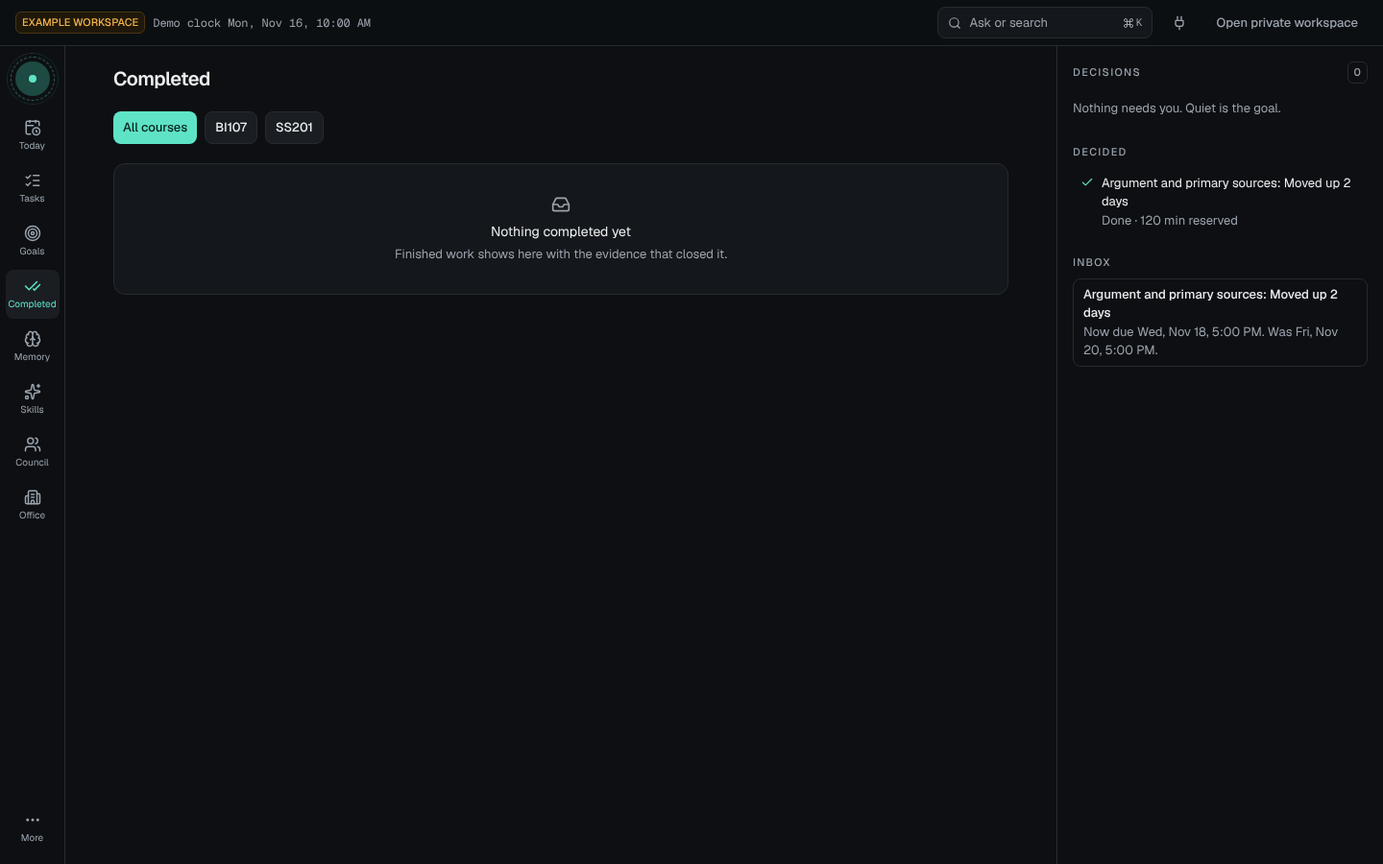
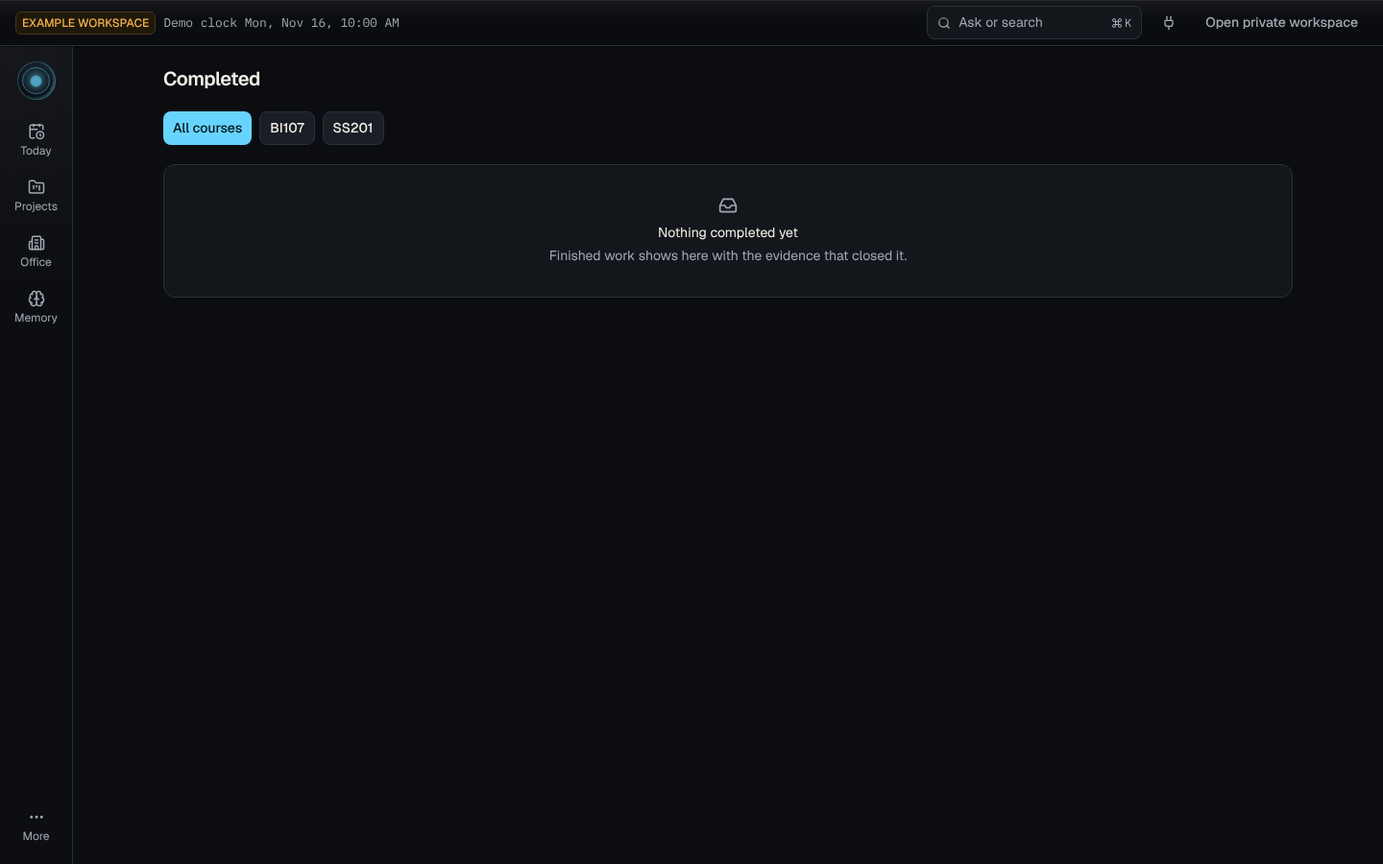
E2E: redesign journeys, handoff and projects/connector flows
Claude-Session: https://claude.ai/code/session_01LVTA14dv2q5dUimpnS7hsM

diff --git a/scripts/e2e.ts b/scripts/e2e.ts
@@ -109,8 +109,10 @@ async function journeyDesktop(ctx: BrowserContext) {
   await page.reload();
   await page.getByTestId("primary-action").waitFor();
   ok((await page.getByTestId("decision-card").count()) === 0, "no pending decision after refresh");
-  await page.getByText("Decided").waitFor();
-  ok(/Reserved|Done|reserved/.test(await page.locator("aside").innerText()), "decided list persists after refresh");
+  ok((await page.locator("aside[aria-label='Decisions']").count()) === 0, "with nothing pending the decisions inspector gives the space back");
+  await page.goto(base + "/decisions"); await page.getByText("Decided").waitFor();
+  ok(/Reserved|Done|reserved/.test(await page.locator("main").innerText()), "decided list persists after refresh");
+  await page.goto(base + "/");
 
   step("Retry the same reserve through the API");
   const again = await post(`/decisions/${accepted.id}/reserve`, {});
@@ -297,7 +299,9 @@ async function journeyMemoryGoals(page: Page) {
 
   step("Memory: search, map, vault, forget");
   await page.goto(base + "/memory");
-  await page.getByLabel("Search notes").fill("shabbat");
+  await page.getByLabel("Ask memory").fill("shabbat");
+  await page.getByTestId("memory-answer").waitFor();
+  ok(/Why:/.test(await page.getByTestId("memory-answer").innerText()), "memory answers with a current answer and why");
   await page.getByRole("button", { name: /Protect Shabbat/ }).first().click();
   await page.getByTestId("note-editor").waitFor();
   ok(/Scheduling rules/.test(await page.getByTestId("note-editor").innerText()), "links and backlinks show");
@@ -317,13 +321,14 @@ async function journeyMemoryGoals(page: Page) {
   await page.getByTestId("reflection-log").getByText(/Perspective A/).waitFor();
   const dump = JSON.stringify(await (await fetch(`${base}/api/export`)).json());
   ok(!dump.includes("zebra-quokka-7731"), "private room content is not stored or exported");
-  await page.getByRole("tab", { name: "Notes" }).click();
-  await page.getByLabel("Search notes").fill("sydney");
+  await page.getByRole("tab", { name: "Memory" }).click();
   await page.getByRole("button", { name: /Leaning Sydney/ }).first().click();
   await page.getByRole("button", { name: "Forget", exact: true }).click();
   await page.getByRole("button", { name: /Confirm: remove/ }).click();
-  await page.getByText("No matches").waitFor();
-  ok(true, "forget removes the note from search");
+  await page.waitForFunction(() => !/Leaning Sydney/.test(document.querySelector("main")?.textContent ?? ""));
+  await page.getByLabel("Ask memory").fill("sydney");
+  await page.getByTestId("memory-answer").getByText(/nothing saved/).waitFor();
+  ok(true, "forget removes the note from the list and from the answer");
   await shot(page, "08-memory-desktop.png");
 }
 
@@ -411,7 +416,9 @@ async function journeyBreak(page: Page) {
   ok(/solid 2px/.test(outline), `focus is visible (${outline})`);
 
   step("Connections drawer and health check");
-  await page.getByRole("button", { name: "Connections and health" }).click();
+  await page.getByRole("link", { name: "Connections", exact: true }).click(); await page.waitForURL(/\/connections/);
+  ok(/Not verified with ordinary Claude yet/.test(await page.getByTestId("connection-status").innerText()), "connections page does not claim ordinary Claude is verified");
+  await page.goto(base + "/?connections=1");
   await page.getByTestId("connections-list").waitFor();
   await page.getByRole("button", { name: "Run health check" }).click();
   await page.getByText(/Local checks only/).first().waitFor();
@@ -419,6 +426,87 @@ async function journeyBreak(page: Page) {
   ok(!/live verified/i.test(ct.replace(/not live verified/gi, "")), "no connection claims to be live verified");
   ok(/Blackboard/.test(ct) && /Needs connection/.test(ct), "Blackboard is honest about needing you");
   await page.keyboard.press("Escape");
+}
+
+async function journeyProjects(page: Page) {
+  step("Projects and the connector: Claude plans a trip, Jarvis knows what was decided");
+  await post("/demo/reset", { confirm: "RESET DEMO" });
+  await page.goto(base + "/projects");
+  await page.getByTestId("projects-empty").waitFor();
+  ok(/Connections/.test(await page.getByTestId("projects-empty").innerText()), "the empty state says how a project starts and points at Connections");
+  await shot(page, "20-projects-empty-desktop.png");
+  await page.goto(base + "/connections");
+  ok(/Not verified with ordinary Claude yet/.test(await page.getByTestId("connection-status").innerText()), "connections starts unverified");
+  await page.getByTestId("token-create").click();
+  await page.getByTestId("token-fresh").waitFor();
+  const token = (await page.getByTestId("token-value").innerText()).trim();
+  ok(/^jvs_d_[A-Za-z0-9_-]{43}$/.test(token), "a token is shown once");
+  ok(!JSON.stringify(await api("/connector")).includes(token), "the API never returns the secret again");
+  await page.reload(); await page.getByTestId("token-list").waitFor();
+  ok((await page.getByTestId("token-fresh").count()) === 0 && !(await bodyText(page)).includes(token), "after a reload the secret is gone from the page");
+  ok(!page.url().includes("jvs_"), "the token never appears in a URL");
+
+  const { Client } = await import("@modelcontextprotocol/sdk/client/index.js");
+  const { StreamableHTTPClientTransport } = await import("@modelcontextprotocol/sdk/client/streamableHttp.js");
+  const connect = async (t: string) => { const c = new Client({ name: "ordinary-claude-emulator", version: "1" }); await c.connect(new StreamableHTTPClientTransport(new URL(`${base}/mcp`), { requestInit: { headers: { authorization: `Bearer ${t}` } } })); return c; };
+  const call = async (c: any, name: string, args: any) => { const r = await c.callTool({ name, arguments: args }); return r.isError ? { error: r.content[0].text } : JSON.parse(r.content[0].text); };
+  const claude = await connect(token);
+  const r1 = await call(claude, "apply_project_update", { project: "Iceland trip", createIfMissing: { kind: "trip" }, eventId: "e2e-iceland-0001", dedupKey: "chat:4", changes: [{ op: "option", key: "lodging", text: "Reykjavik apartment" }, { op: "option", key: "lodging", text: "Vik guesthouse" }, { op: "decide", key: "dates", text: "June 14 to 21" }] });
+  ok(r1.saved && r1.revision === 1 && r1.origin === "claude", "Claude saved a trip update through the connector and got a receipt");
+  ok((await call(claude, "apply_project_update", { project: "Iceland trip", eventId: "e2e-iceland-0002", dedupKey: "chat:4", changes: [{ op: "fact", key: "z", text: "z" }] })).replay === true, "replaying the message did not write twice");
+  await page.goto(base + "/projects");
+  await page.getByTestId("project-card").filter({ hasText: "Iceland trip" }).click();
+  await page.getByTestId("project-answer").waitFor();
+  ok(/June 14 to 21/.test(await page.getByTestId("project-answer").innerText()), "the project page shows the decision Claude saved");
+  ok((await page.getByTestId("project-fact").filter({ hasText: "Vik guesthouse" }).count()) === 1, "undecided options are listed separately");
+  ok(/Claude conversation/.test(await page.getByTestId("project-fact").filter({ hasText: "June 14 to 21" }).innerText()), "each item says it came from a Claude conversation");
+  await shot(page, "21-project-desktop.png");
+  await page.getByTestId("project-fact").filter({ hasText: "June 14 to 21" }).locator("button").first().click();
+  await page.getByTestId("project-inspector").waitFor();
+  ok(/e2e-iceland-0001/.test(await page.getByTestId("project-inspector").innerText()), "the inspector shows the evidence: event id, revision, source");
+  await page.getByRole("button", { name: "Edit", exact: true }).click();
+  await page.getByLabel("Edit text").fill("June 15 to 22");
+  await page.getByRole("button", { name: "Save", exact: true }).first().click();
+  await page.getByTestId("project-answer").getByText(/June 15 to 22/).waitFor();
+  ok(true, "editing in Jarvis changes the current answer");
+  const ctxNow = await call(claude, "get_project_context", { project: "Iceland trip" });
+  ok(ctxNow.current.find((f: any) => f.key === "dates").text === "June 15 to 22", "Claude reads the edit you made in Jarvis");
+  const stale = await call(claude, "apply_project_update", { project: "Iceland trip", expectedRevision: 1, eventId: "e2e-iceland-0003", changes: [{ op: "decide", key: "dates", text: "June 20 to 27" }] });
+  ok(stale.saved === false && stale.conflict === true, "a stale Claude update is refused and does not overwrite your edit");
+  await page.getByRole("button", { name: "Choose this" }).first().click();
+  await page.getByTestId("project-fact").filter({ hasText: "Decided" }).filter({ hasText: /Reykjavik|Vik/ }).first().waitFor();
+  await page.getByTestId("project-undo").click();
+  await page.waitForFunction(() => document.querySelectorAll('[data-testid="project-fact"]').length > 0);
+  ok(true, "undo steps back the last update");
+
+  step("Two-way connection check");
+  await page.goto(base + "/connections");
+  await page.getByTestId("probe-start").click(); await page.getByTestId("probe").waitFor();
+  const code = (await page.getByTestId("probe").innerText()).match(/JV-[0-9A-F]{6}/)![0];
+  ok((await page.getByTestId("probe-edit").isDisabled()), "the marker step waits for Claude's write");
+  await call(claude, "save_to_jarvis", { text: `Remember for Jarvis: connection check ${code}`, synthetic: true });
+  await page.getByTestId("probe").getByText(/Received/).waitFor({ timeout: 10000 });
+  await page.getByTestId("probe-edit").click(); await page.getByTestId("probe").getByText(/Marker added/).waitFor();
+  const back = await call(claude, "recall_from_jarvis", { query: `connection check ${code}` });
+  ok(back.items[0].type === "connection_check", "Claude reads the note back");
+  await page.getByTestId("connection-status").getByText(/connected and verified/).waitFor({ timeout: 10000 });
+  ok(true, "the status turns verified only after write, edit and read-back");
+  await shot(page, "22-connections-desktop.png");
+
+  step("Revoke stops the connector at once");
+  await page.getByRole("button", { name: "Revoke" }).first().click();
+  await page.getByTestId("token-list").getByText("revoked").waitFor();
+  let refused = false; try { await call(claude, "get_project_context", {}); } catch { refused = true; }
+  ok(refused, "a revoked token stops working even in an open session");
+  await claude.close().catch(() => {});
+
+  step("Memory, Today and Activity after the work");
+  await page.goto(base + "/memory"); await page.getByTestId("memory-ask").fill("dates"); await page.getByTestId("memory-answer").getByText(/June 15 to 22/).waitFor();
+  ok(/Claude conversation|Jarvis/.test(await page.getByTestId("memory-answer").innerText()), "memory answers from the project decision and says why");
+  await shot(page, "23-memory-desktop.png");
+  await page.goto(base + "/activity"); await page.getByTestId("outcomes").waitFor();
+  ok((await page.getByTestId("outcome-row").filter({ hasText: "Iceland trip" }).count()) >= 1, "Activity lists the project update as an outcome with its receipt");
+  await shot(page, "24-activity-desktop.png");
 }
 
 async function journeyMobile(browser: Browser) {
@@ -432,12 +520,10 @@ async function journeyMobile(browser: Browser) {
   ok((await overflow()) <= 0, "Today has no horizontal scroll");
   await shot(page, "10-today-mobile.png");
   await page.getByTestId("replay-update").tap();
-  await page.getByRole("link", { name: /Decisions/ }).waitFor();
-  await page.getByRole("link", { name: /Decisions/ }).filter({ hasText: "1" }).waitFor();
-  ok(true, "Decisions tab shows the count");
-  await page.getByRole("link", { name: /Decisions/ }).tap();
+  await page.getByRole("navigation", { name: "Primary mobile" }).getByRole("link", { name: /Today/ }).filter({ hasText: "1" }).waitFor();
+  ok(true, "the Today tab shows the pending-decision count");
   await page.getByTestId("decision-card").first().waitFor();
-  ok((await overflow()) <= 0, "Decisions has no horizontal scroll");
+  ok((await overflow()) <= 0, "Today with a decision has no horizontal scroll");
   await page.getByTestId("decision-card").first().tap();
   const dlg = page.getByRole("dialog"); await dlg.getByTestId("plan-chunks").waitFor();
   const box = await dlg.boundingBox();
@@ -451,15 +537,15 @@ async function journeyMobile(browser: Browser) {
   await reserve.tap();
   await dlg.getByTestId("decision-state").waitFor();
   await page.keyboard.press("Escape");
-  await page.getByRole("button", { name: "Capture" }).tap();
+  await page.getByTestId("mobile-capture").tap();
   await page.getByRole("dialog").getByLabel("Who owes").fill("Example advisor");
   await page.getByRole("dialog").getByLabel("What was promised").fill("Send the reading list");
   await page.getByRole("dialog").getByRole("button", { name: "Save" }).tap();
   await page.getByText(/Promise saved/).waitFor();
   ok(true, "Capture works on the phone");
   await page.keyboard.press("Escape");
-  await page.getByRole("button", { name: "More" }).tap();
-  await page.getByRole("link", { name: "Council" }).tap();
+  await page.getByRole("button", { name: "More", exact: true }).tap();
+  await page.getByRole("link", { name: "Council", exact: true }).tap();
   await page.getByText("Load the sample essay").waitFor();
   ok((await overflow()) <= 0, "Council has no horizontal scroll");
   await shot(page, "12-council-mobile.png");
@@ -543,20 +629,32 @@ async function journeyOffice(page: Page, browser: Browser) {
   ok(/three pitch angles/.test(await page.getByTestId("receipt-message").innerText()), "receipt says what was saved");
   await page.getByTestId("roster-job").filter({ hasText: "Capacity specialist" }).first().waitFor({ timeout: 20000 });
   ok(true, "the supervisor assigned a Capacity specialist");
+  // The visual test: from the room alone, who assigned, who is working, and (later) who needs you.
+  await page.getByTestId("handoff-path").first().waitFor({ timeout: 15000 });
+  ok(/Jarvis/.test(await page.getByTestId("handoff-assigned").innerText()) && /Planner|Reviewer/.test(await page.getByTestId("handoff-assigned").innerText()), "the handoff strip says who assigned it and to whom");
+  await page.getByTestId("office-worker").filter({ has: page.locator("xpath=.") }).first().waitFor();
+  ok(/Planner/.test(await page.getByTestId("handoff-working").innerText()), "the handoff strip says who is working now");
+  const workerLabels = await page.getByTestId("office-worker").evaluateAll((els) => els.map((e) => e.getAttribute("aria-label")));
+  ok(workerLabels.some((l) => /^Planner:/.test(l ?? "")), "a Planner character is in the room");
+  await shot(page, "15a-office-handoff-desktop.png");
   const spec = page.getByTestId("roster-job").filter({ hasText: "Capacity specialist" }).first();
   await spec.click();
   const insp = page.getByTestId("inspector");
-  await insp.getByText("Delegated by").waitFor();
+  await insp.getByText("Assigned by", { exact: true }).waitFor();
   const it = await insp.innerText();
   ok(/Handle:/.test(it) && /cap_/.test(it) && /No model used/.test(it) && /Last heartbeat/.test(it), "inspector shows who delegated it, evidence, usage and heartbeat");
   await shot(page, "15-office-desktop.png");
   await waitFor("the decision to arrive", async () => (await api("/decisions")).decisions.some((d: any) => d.kind === "commitment_plan"));
-  await page.getByTestId("decision-card").filter({ hasText: "TAMID" }).first().waitFor();
-  ok(true, "a decision arrived at the Decisions desk");
+  await page.getByTestId("handoff-needs").getByText(/TAMID/).waitFor();
+  ok(/Reviewer/.test(await page.getByTestId("handoff-needs").innerText()), "the strip says the Reviewer needs you");
+  await page.getByTestId("ask-bubble").waitFor();
+  ok((await page.getByTestId("office-worker").evaluateAll((els) => els.filter((e) => e.getAttribute("data-needs-you") === "1").length)) === 1, "exactly one character is asking for you");
+  ok(/1 waiting/.test((await page.getByTestId("you-desk").textContent()) ?? ""), "your desk shows one item waiting");
+  await shot(page, "15c-office-needs-you-desktop.png");
   await waitFor("helpers to finish", async () => (await api("/office")).jobs.every((j: any) => j.status === "done"));
   const counts = async () => { const o = await api("/office"); const c = await api("/commitments"); const d = await api("/decisions"); return { jobs: o.jobs.length, cmts: c.commitments.filter((x: any) => /pitch angles/.test(x.action)).length, decs: d.decisions.filter((x: any) => x.kind === "commitment_plan").length }; };
   const c1 = await counts();
-  ok(c1.cmts === 1 && c1.decs === 1 && c1.jobs === 2, `one commitment, one decision, two jobs (${JSON.stringify(c1)})`);
+  ok(c1.cmts === 1 && c1.decs === 1 && c1.jobs === 3, `one commitment, one decision, three jobs (supervisor, planner, reviewer) (${JSON.stringify(c1)})`);
 
   step("Office: replay the same message");
   await page.getByTestId("capture-replay").click();
@@ -570,7 +668,7 @@ async function journeyOffice(page: Page, browser: Browser) {
   await page.reload();
   await page.getByTestId("roster").waitFor();
   await page.getByTestId("roster-job").first().waitFor();
-  ok((await page.getByTestId("roster-job").count()) === 2, "the roster is rebuilt from saved state after a reload");
+  ok((await page.getByTestId("roster-job").count()) === 3, "the roster is rebuilt from saved state after a reload");
 
   step("Office: kill the worker mid-job, start another, still one commitment and one decision");
   startWorker(1500);
@@ -598,7 +696,7 @@ async function journeyOffice(page: Page, browser: Browser) {
   await m.goto(base + "/office"); await m.getByTestId("roster").waitFor();
   ok((await m.evaluate(() => document.documentElement.scrollWidth - window.innerWidth)) <= 0, "Office has no horizontal scroll on the phone");
   await m.getByTestId("roster-job").first().tap();
-  await m.getByTestId("inspector").getByText("Delegated by").waitFor();
+  await m.getByTestId("inspector").getByText("Assigned by", { exact: true }).waitFor();
   await shot(m, "16-office-mobile.png");
   await ctx.close();
 }
@@ -673,7 +771,7 @@ async function journeyStudy(browser: Browser) {
   const research = page.getByTestId("roster-job").filter({ hasText: "Research specialist" }).first();
   await research.waitFor({ timeout: 30000 });
   await research.click();
-  await page.getByTestId("inspector").getByText("Delegated by").waitFor();
+  await page.getByTestId("inspector").getByText("Assigned by", { exact: true }).waitFor();
   ok(/photo \d of 2|\d of 2/.test(await page.getByTestId("inspector").innerText()) || /Checking photo|Reading photo|final scope/.test(await page.getByTestId("inspector").innerText()), "the Office shows the research helper's real step");
   await shot(page, "17-office-study-desktop.png");
   await waitFor("the guide to be saved", async () => (await api("/courses/BI107")).documents.some((d: any) => d.title === "BI107 Final study guide"), 60000);
@@ -782,7 +880,7 @@ async function journeyStudy(browser: Browser) {
   await page.goto(base + "/office");
   const sup = page.getByTestId("roster-job").filter({ hasText: "Supervisor" }).filter({ hasText: "final study guide" }).last();
   await sup.click();
-  await page.getByTestId("inspector").getByText("Delegated by").waitFor();
+  await page.getByTestId("inspector").getByText("Assigned by", { exact: true }).waitFor();
   await page.getByRole("button", { name: /Cancel \(and its helpers\)/ }).click();
   await waitFor("the cancelled job to stop", async () => (await api("/office")).jobs.some((j: any) => j.kind === "supervise_study" && j.status === "cancelled"), 20000);
   await page.waitForTimeout(2500);
@@ -816,7 +914,8 @@ async function journeyMcp() {
   ok(bad.status === 401, "a wrong token is refused");
   const out = await new Promise<{ code: number; text: string }>((res) => { const c = spawn("npx", ["tsx", "scripts/mcp-smoke.ts", url, "e2e-token-0123456789abcdef"], { env: process.env }); let t = ""; c.stdout.on("data", (d) => (t += d)); c.stderr.on("data", (d) => (t += d)); c.on("close", (code) => res({ code: code ?? 1, text: t })); });
   ok(out.code === 0 && /MCP smoke test passed/.test(out.text), `the smoke script passes against the running server (${out.text.split("\n").filter((l) => l.startsWith("ok")).length} checks)`);
-  await waitFor("the supervisor to handle the connector capture", async () => (await api("/office")).jobs.some((j: any) => /smoke-test team/.test(j.title) && j.status === "done"), 40000);
+  await waitFor("the connector capture to reach a decision", async () => (await api("/decisions")).decisions.some((x: any) => /smoke-test team/.test(x.title)), 40000);
+  await waitFor("its helpers to finish", async () => (await api("/office")).jobs.filter((j: any) => /smoke-test team/.test(j.title)).every((j: any) => j.status === "done"), 40000);
   const d = await api("/decisions"); ok(d.decisions.filter((x: any) => /smoke-test team/.test(x.title)).length === 1, "the connector capture produced exactly one decision after a replay");
   const caps = await api("/captures"); const c = caps.captures.find((x: any) => /smoke-test/.test(x.parsed.owedTo ?? ""));
   ok(!!c && c.source.includes("Ordinary Claude chat") && c.synthetic === true, "the capture is labeled with its real source and as synthetic");
@@ -829,6 +928,7 @@ async function main() {
   try {
     const only = process.env.E2E_ONLY;
     if (only === "study") { await journeyStudy(browser); }
+    else if (only === "projects") { const c = await browser.newContext({ viewport: { width: 1440, height: 900 } }); const p = await c.newPage(); watch(p, "projects"); await journeyProjects(p); await c.close(); }
     else if (only === "mcp") { startWorker(300); await journeyMcp(); }
     else if (only === "office") { const c = await browser.newContext({ viewport: { width: 1440, height: 900 } }); const p = await c.newPage(); watch(p, "office"); await journeyOffice(p, browser); await c.close(); }
     else {
@@ -840,6 +940,7 @@ async function main() {
     await journeyOffice(page, browser);
     await journeyStudy(browser);
     await journeyMcp();
+    await journeyProjects(page);
     await desktop.close();
     await journeyMobile(browser);
     await journeyA11y(browser);

diff --git a/src/app/(app)/connections/page.tsx b/src/app/(app)/connections/page.tsx
@@ -12,14 +12,14 @@ function Step({ n, done, title, children }: { n: number; done: boolean; title: s
 const CopyBtn = ({ text, label = "Copy" }: { text: string; label?: string }) => { const [ok, setOk] = useState(false); return <Button size="sm" onClick={async () => { try { await navigator.clipboard.writeText(text); setOk(true); setTimeout(() => setOk(false), 1500); } catch { /* clipboard blocked */ } }}>{ok ? <Check className="size-4" /> : <Copy className="size-4" />}{ok ? "Copied" : label}</Button>; };
 
 export default function ConnectionsPage() {
-  const q = useQuery<any>("/connections", { poll: 2500 });
+  const q = useQuery<any>("/connector", { poll: 2500 });
   const [label, setLabel] = useState("Claude on my Mac"); const [access, setAccess] = useState("write"); const [days, setDays] = useState("90");
   const [fresh, setFresh] = useState<any>(null);
-  const create = useAction(async () => { setFresh(await api("/connections/tokens", { body: { label, scopes: access === "read" ? ["read"] : ["read", "write"], expiresInDays: days === "never" ? null : Number(days) } })); });
-  const revoke = useAction(async (id: string) => { await api(`/connections/tokens/${id}/revoke`, { body: {} }); });
-  const rotate = useAction(async (id: string) => { setFresh(await api(`/connections/tokens/${id}/rotate`, { body: {} })); });
-  const start = useAction(async () => { await api("/connections/probe", { body: {} }); });
-  const edit = useAction(async (id: string) => { await api(`/connections/probe/${id}/edit`, { body: {} }); });
+  const create = useAction(async () => { setFresh(await api("/connector/tokens", { body: { label, scopes: access === "read" ? ["read"] : ["read", "write"], expiresInDays: days === "never" ? null : Number(days) } })); });
+  const revoke = useAction(async (id: string) => { await api(`/connector/tokens/${id}/revoke`, { body: {} }); });
+  const rotate = useAction(async (id: string) => { setFresh(await api(`/connector/tokens/${id}/rotate`, { body: {} })); });
+  const start = useAction(async () => { await api("/connector/probe", { body: {} }); });
+  const edit = useAction(async (id: string) => { await api(`/connector/probe/${id}/edit`, { body: {} }); });
   if (q.loading && !q.data) return <Spinner label="Checking connections" />;
   if (q.error && !q.data) return <ErrorBox error={q.error} onRetry={q.reload} offline={q.error.status === 0} />;
   const d = q.data; const p = d.probe; const active = d.tokens.filter((t: any) => t.status === "active");

diff --git a/src/lib/server.ts b/src/lib/server.ts
@@ -120,12 +120,12 @@ on("POST", "/projects/facts/:id/forget", (c, r) => { r.json(z.object({ confirm: 
 on("POST", "/projects/facts/:id/pin", (c, r) => pinFact(c, r.params.id, r.json(z.object({ pinned: z.boolean() })).pinned));
 on("POST", "/projects/facts/:id/resolve", (c, r) => resolveSuggestion(c, r.params.id, r.json(z.object({ accept: z.boolean() })).accept));
 on("POST", "/projects/events/:id/undo", (c, r) => undoEvent(c, r.params.id));
-on("GET", "/connections", (c) => ({ tokens: listTokens(c), probe: probeState(c), envToken: !!process.env.JARVIS_MCP_TOKEN, publicUrl: process.env.JARVIS_PUBLIC_URL ?? null, ingress: process.env.JARVIS_PUBLIC_MODE === "mcp-only" ? "mcp-only" : "full", mode: c.mode }));
-on("POST", "/connections/tokens", (c, r) => createToken(c, r.json(NewToken)));
-on("POST", "/connections/tokens/:id/revoke", (c, r) => revokeToken(c, r.params.id));
-on("POST", "/connections/tokens/:id/rotate", (c, r) => rotateToken(c, r.params.id));
-on("POST", "/connections/probe", (c) => startProbe(c));
-on("POST", "/connections/probe/:id/edit", (c, r) => editProbe(c, r.params.id));
+on("GET", "/connector", (c) => ({ tokens: listTokens(c), probe: probeState(c), envToken: !!process.env.JARVIS_MCP_TOKEN, publicUrl: process.env.JARVIS_PUBLIC_URL ?? null, ingress: process.env.JARVIS_PUBLIC_MODE === "mcp-only" ? "mcp-only" : "full", mode: c.mode }));
+on("POST", "/connector/tokens", (c, r) => createToken(c, r.json(NewToken)));
+on("POST", "/connector/tokens/:id/revoke", (c, r) => revokeToken(c, r.params.id));
+on("POST", "/connector/tokens/:id/rotate", (c, r) => rotateToken(c, r.params.id));
+on("POST", "/connector/probe", (c) => startProbe(c));
+on("POST", "/connector/probe/:id/edit", (c, r) => editProbe(c, r.params.id));
 on("GET", "/office", (c) => ({ ...officeState(c), runner: runnerStatus(c.mode), decisions: listDecisions(c).filter((d) => ["commitment_plan"].includes(d.kind)).map((d) => ({ id: d.id, title: d.title, urgency: d.urgency })),
   captures: all(c.db, "SELECT id FROM captures WHERE owner_id=? ORDER BY created_at DESC LIMIT 5", c.owner).map((x) => captureReceipt(c, x.id as string)), templates: all(c.db, "SELECT id,name,role,status,tools FROM specialist_templates WHERE owner_id=?", c.owner) }));
 on("POST", "/office/run", (c) => { kick(c.mode); return { ok: true }; });
